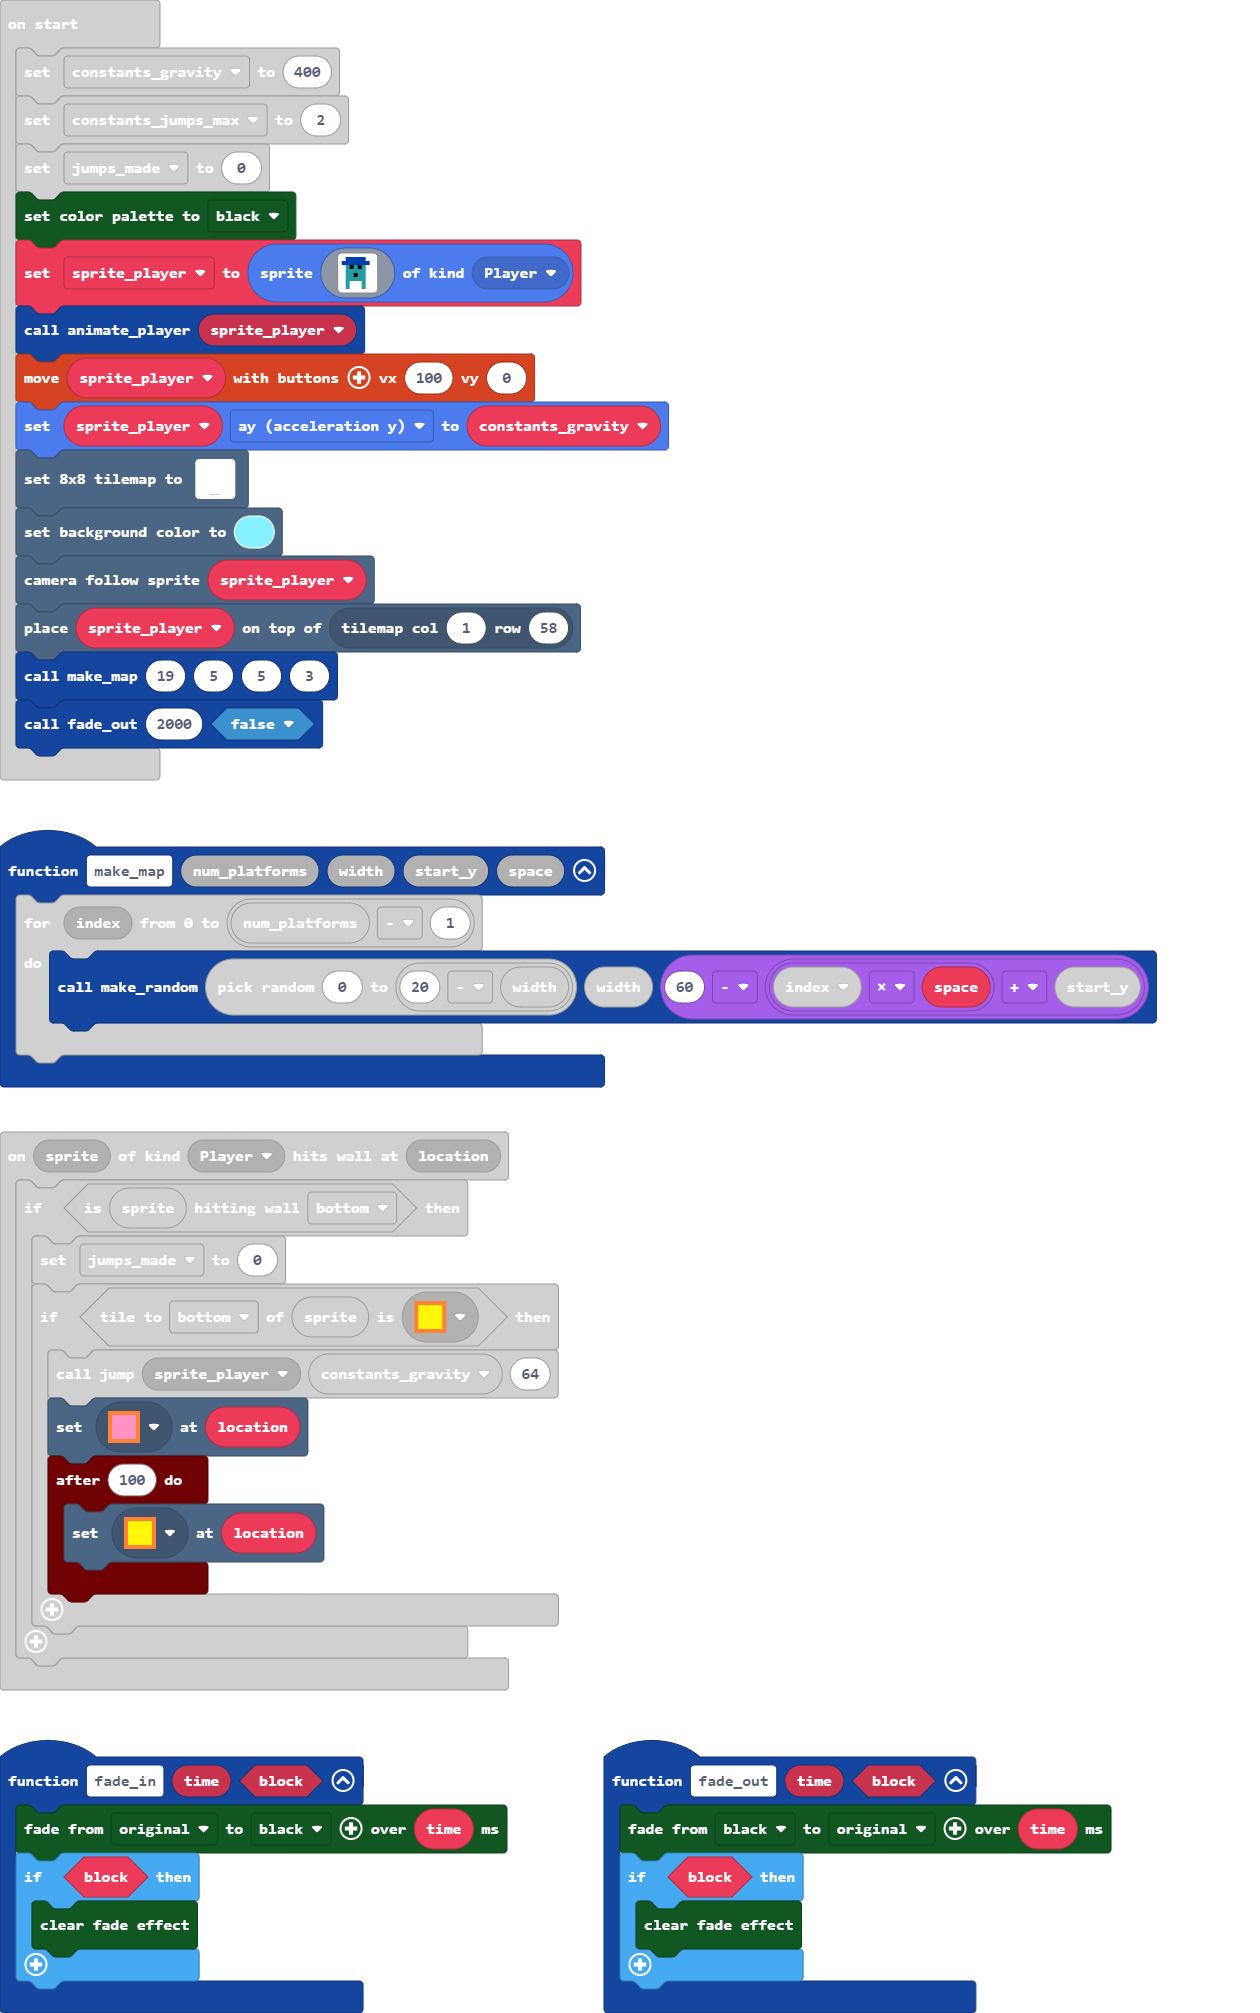
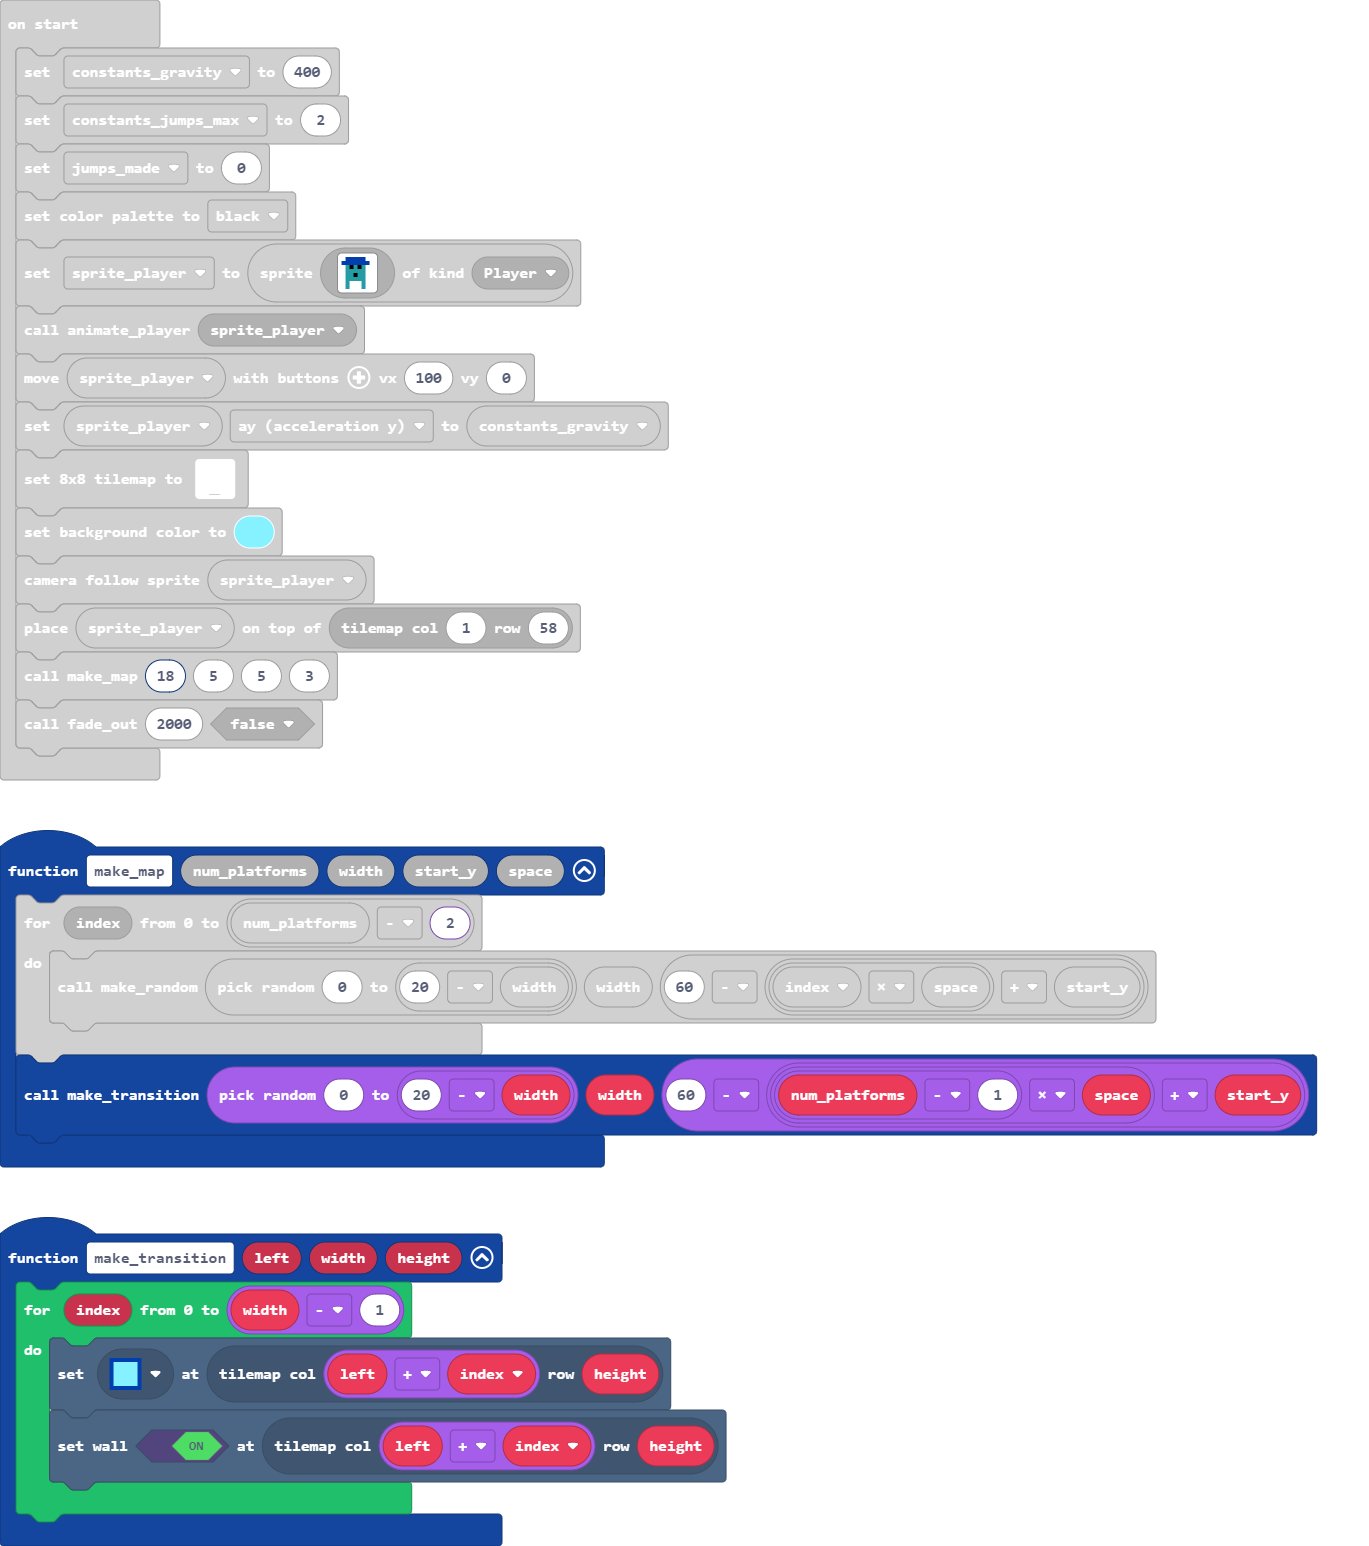
Make non-functioning transition platform

diff --git a/main.ts b/main.ts
@@ -118,13 +118,20 @@ scene.onOverlapTile(SpriteKind.MovingPlatform, myTiles.transparency8, function (
         tiles.setWallAt(location, false)
     })
 })
+function make_transition (left: number, width: number, height: number) {
+    for (let index = 0; index <= width - 1; index++) {
+        tiles.setTileAt(tiles.getTileLocation(left + index, height), myTiles.tile5)
+        tiles.setWallAt(tiles.getTileLocation(left + index, height), true)
+    }
+}
 function jump (sprite: Sprite, gravity: number, pixels: number) {
     sprite.vy = Math.sqrt(2 * (gravity * pixels)) * -1
 }
 function make_map (num_platforms: number, width: number, start_y: number, space: number) {
-    for (let index = 0; index <= num_platforms - 1; index++) {
+    for (let index = 0; index <= num_platforms - 2; index++) {
         make_random(randint(0, 20 - width), width, 60 - (index * space + start_y))
     }
+    make_transition(randint(0, 20 - width), width, 60 - ((num_platforms - 1) * space + start_y))
 }
 function make_random (left: number, width: number, height: number) {
     local_random = randint(0, 100)
@@ -364,7 +371,7 @@ tiles.setSmallTilemap(tiles.createTilemap(hex`14003c0000000000000000000000000000
 scene.setBackgroundColor(9)
 scene.cameraFollowSprite(sprite_player)
 tiles.placeOnTile(sprite_player, tiles.getTileLocation(1, 58))
-make_map(19, 5, 5, 3)
+make_map(18, 5, 5, 3)
 fade_out(2000, false)
 game.onUpdateInterval(1000, function () {
     effects.clouds.startScreenEffect(500)

diff --git a/tilemap.g.ts b/tilemap.g.ts
@@ -11,6 +11,8 @@ namespace myTiles {
     //% fixedInstance jres blockIdentity=images._tile
     export const tile4 = image.ofBuffer(hex``);
     //% fixedInstance jres blockIdentity=images._tile
+    export const tile5 = image.ofBuffer(hex``);
+    //% fixedInstance jres blockIdentity=images._tile
     export const transparency16 = image.ofBuffer(hex``);
 
 }
